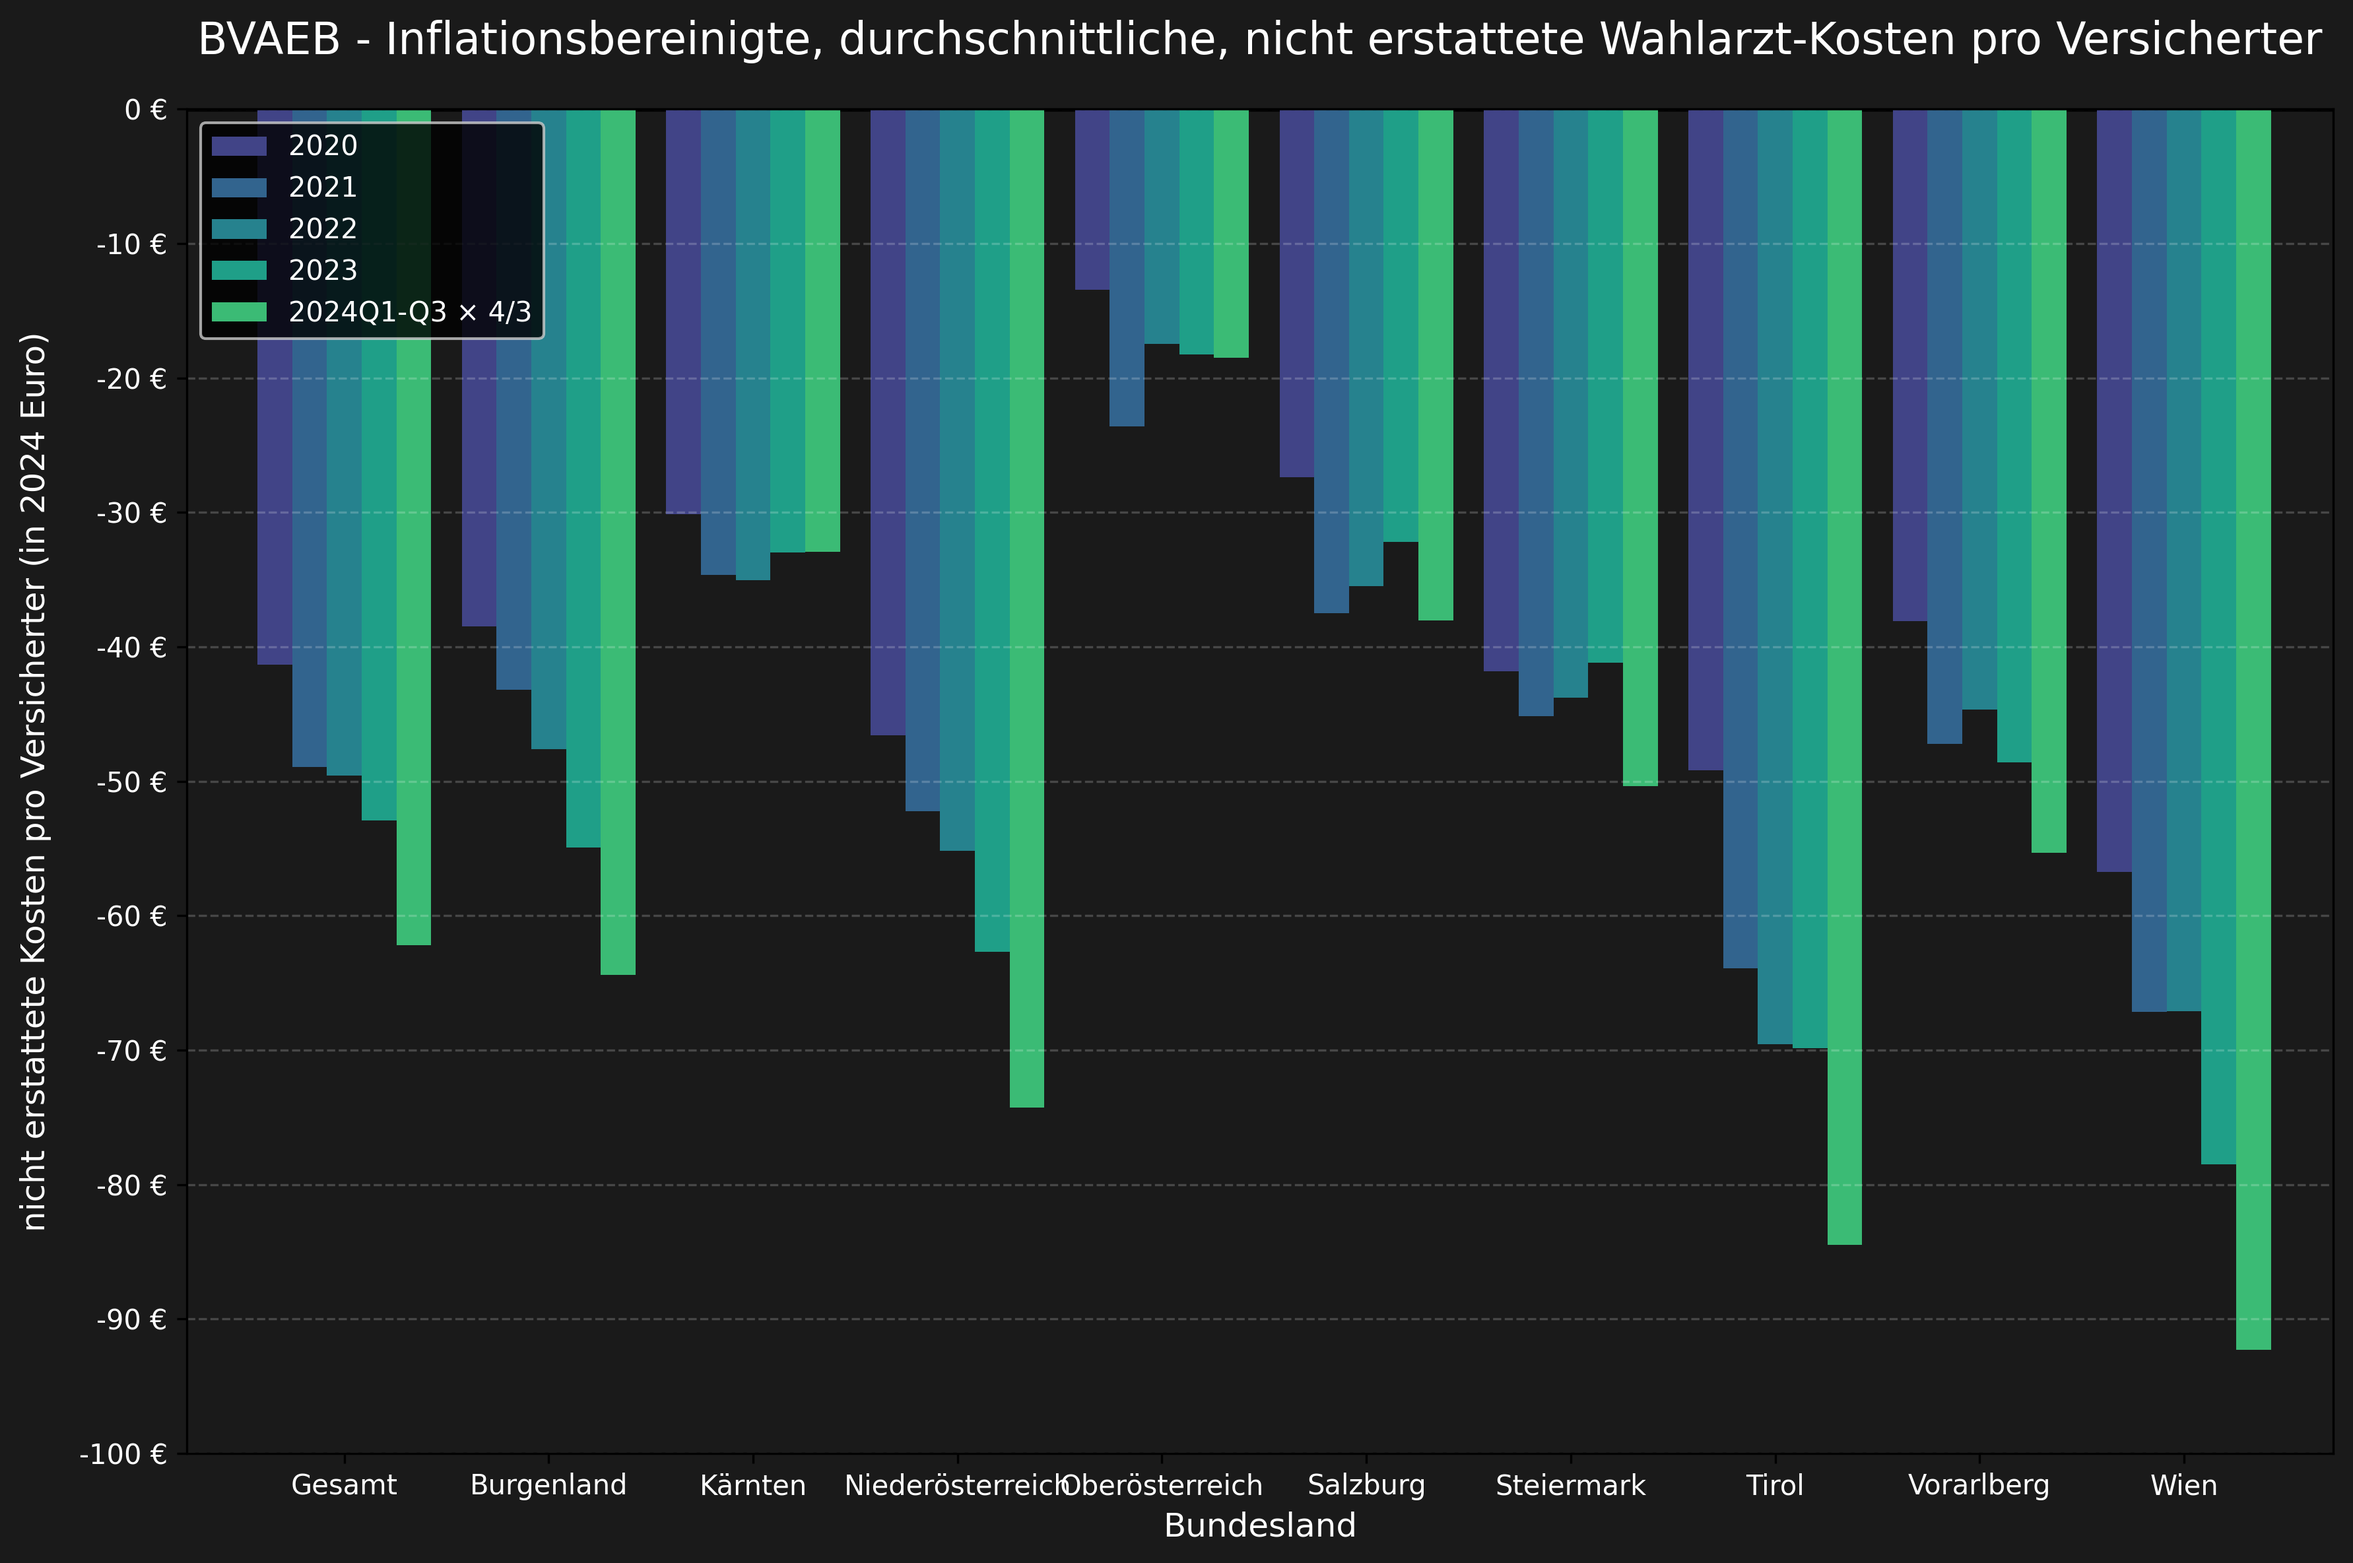
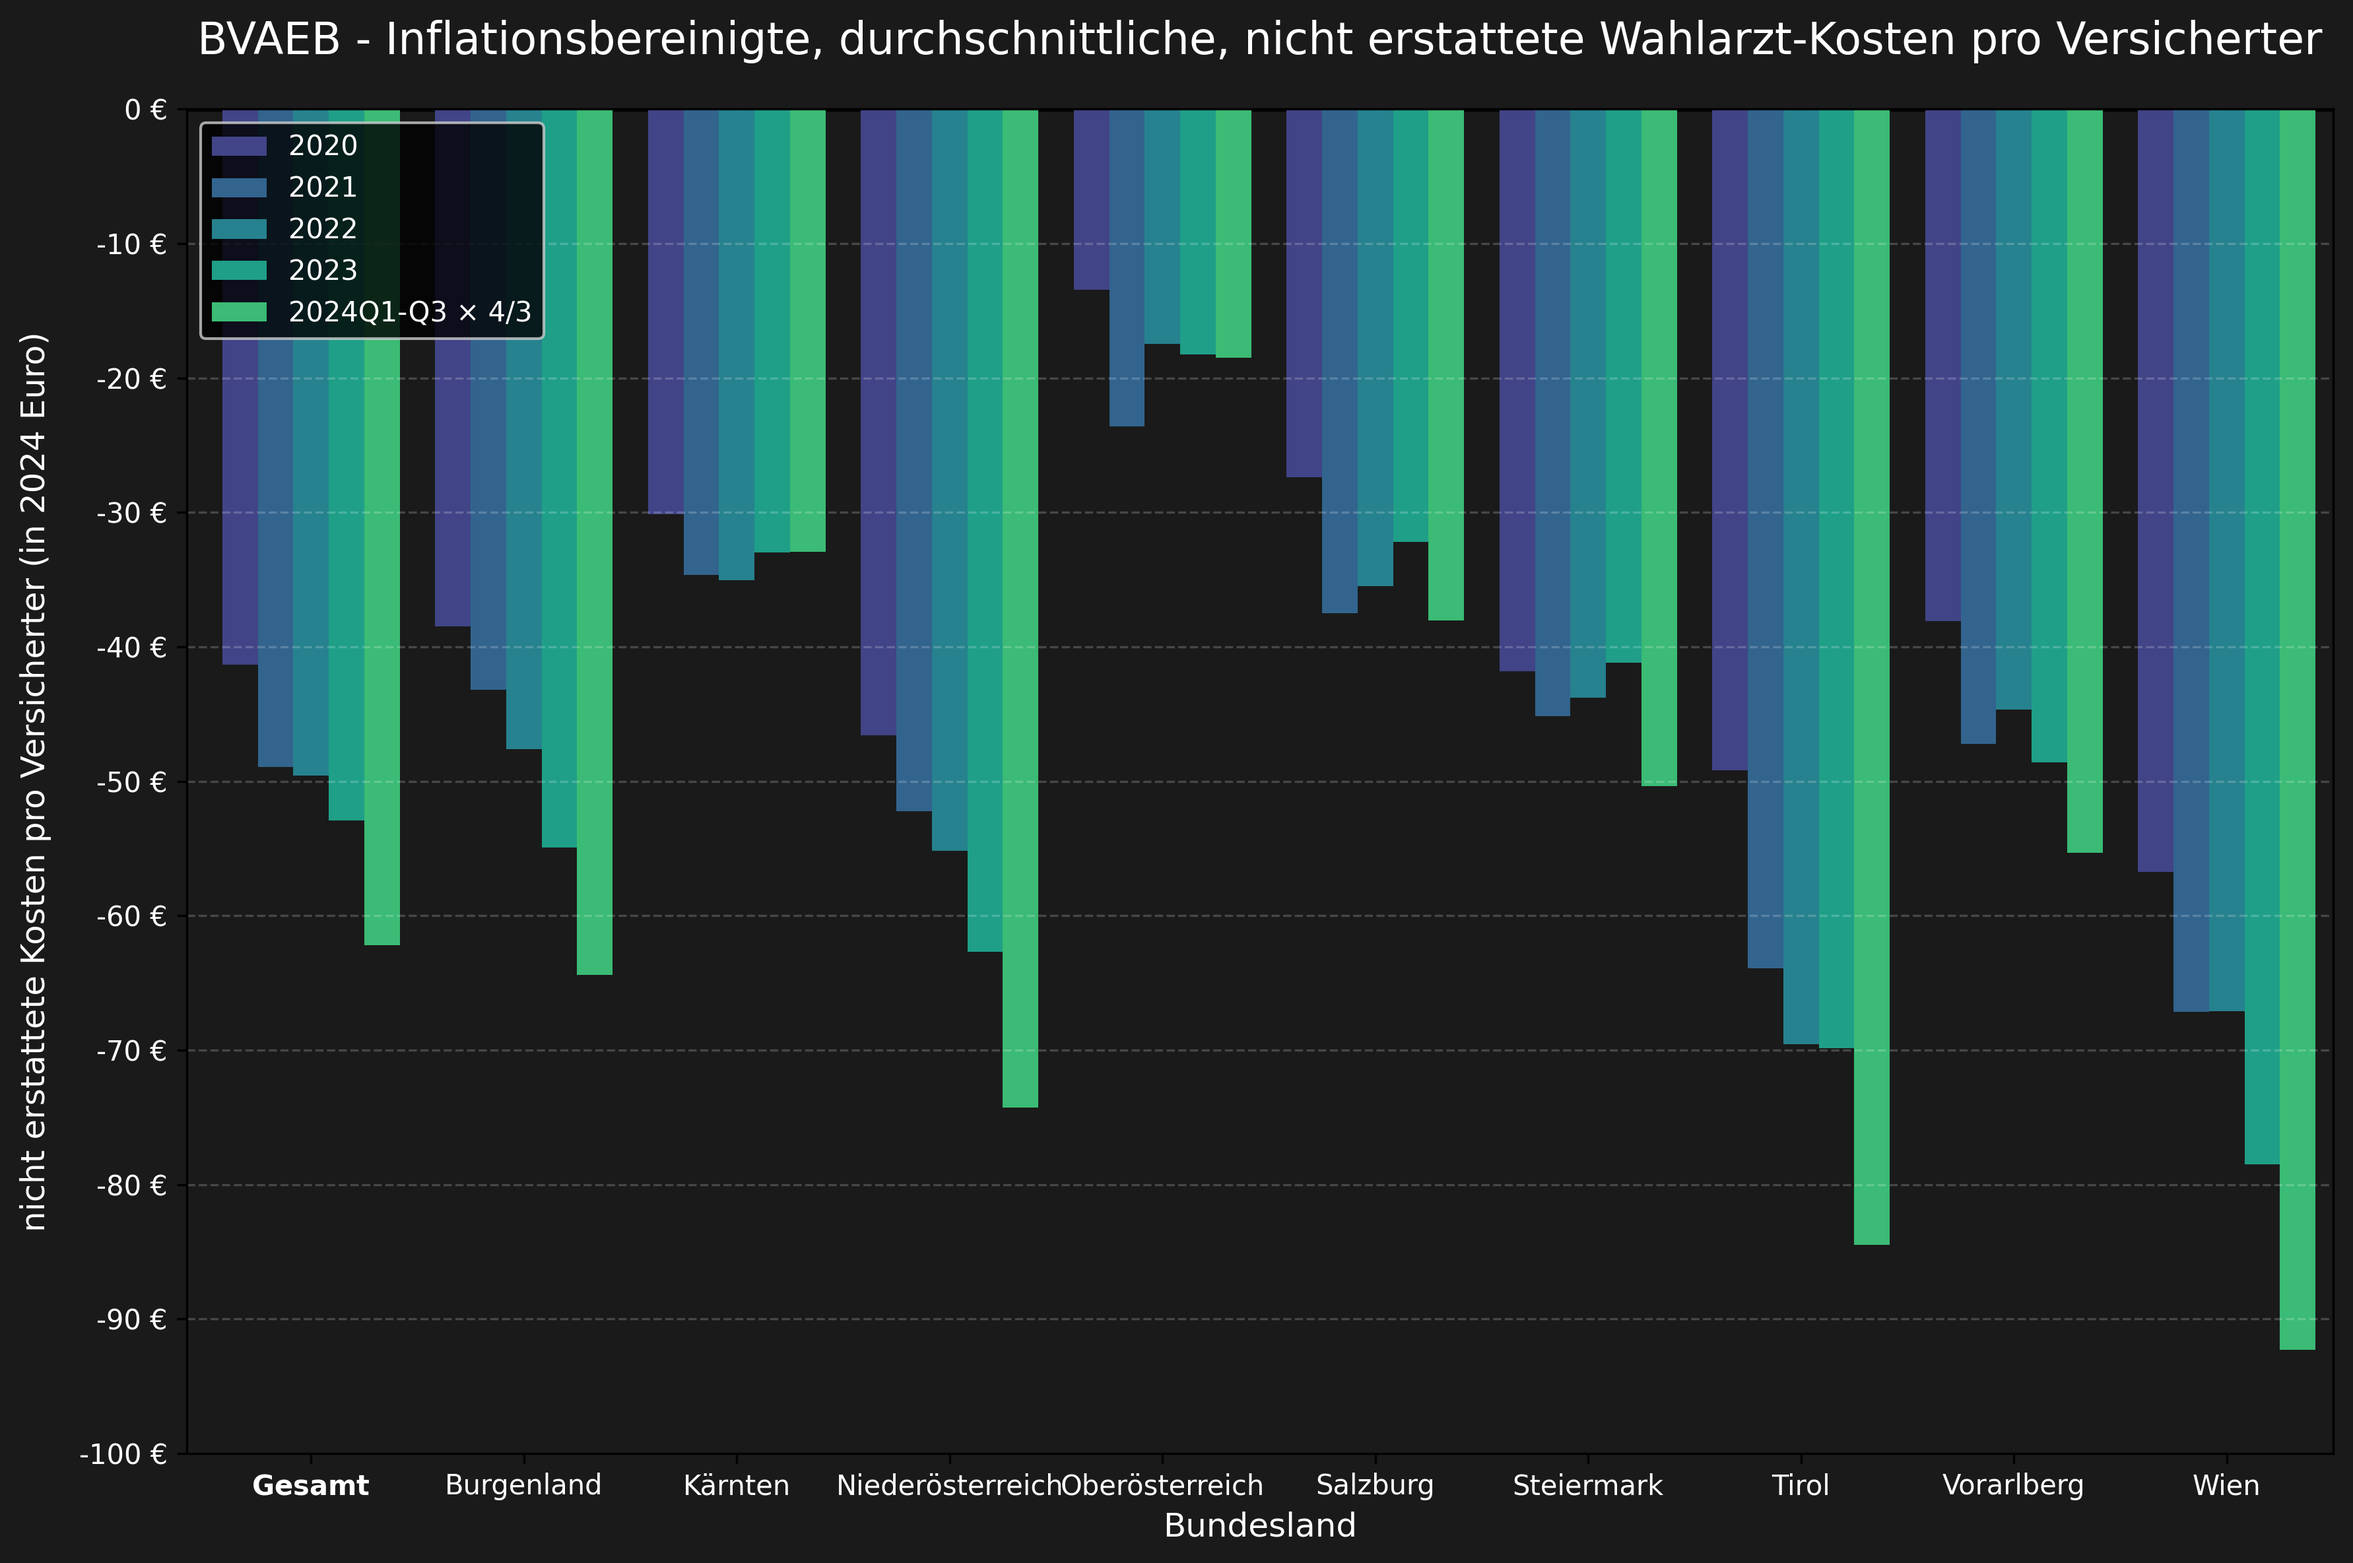
small improvements to betraege weidhted plot

diff --git a/visualize/plot_oegk_betraege_weighted.py b/visualize/plot_oegk_betraege_weighted.py
@@ -180,7 +180,8 @@ def create_plot(input_file, dark_mode=True, is_updated=False, plot_type="betraeg
 
     # Create x-axis positions
     x = np.arange(len(states))
-    bar_width = 0.85 / len(years)  # Adjust bar width based on number of years
+    bar_width = 1 / len(years)  # Adjust bar width based on number of years
+    group_spacing = 0.2  # Add spacing between groups of bars
 
     # Add special grid line at 0 for personal loss plot before plotting bars
     # Set grid alpha to 0.2 for dark mode and 0.7 for light mode
@@ -222,7 +223,7 @@ def create_plot(input_file, dark_mode=True, is_updated=False, plot_type="betraeg
                     # Plot Rechnungsbeträge with modified color
                     bars.append(
                         ax.bar(
-                            i + (j - 1) * bar_width,
+                            i + (j - 1) * bar_width + i * group_spacing,
                             rechnungsbetrag,
                             bar_width,
                             color=rechnungsbetraege_color,
@@ -237,7 +238,7 @@ def create_plot(input_file, dark_mode=True, is_updated=False, plot_type="betraeg
 
                     bars.append(
                         ax.bar(
-                            i + (j - 1) * bar_width,
+                            i + (j - 1) * bar_width + i * group_spacing,
                             refundierung,
                             bar_width,
                             color=refund_color,
@@ -250,7 +251,7 @@ def create_plot(input_file, dark_mode=True, is_updated=False, plot_type="betraeg
                         personal_loss = year_data["Personal_loss"].iloc[0]
                         bars.append(
                             ax.bar(
-                                i + (j - 1) * bar_width,
+                                i + (j - 1) * bar_width + i * group_spacing,
                                 personal_loss,
                                 bar_width,
                                 color=plt.cm.viridis(0.2 + 0.6 * (j / len(years))),
@@ -274,8 +275,6 @@ def create_plot(input_file, dark_mode=True, is_updated=False, plot_type="betraeg
         )
         ylabel = "nicht erstattete Kosten pro Versicherter (in 2024 Euro)"
 
-    if is_updated:
-        title_prefix += " (Aktualisiert 2025)"
     plt.title(
         title_prefix,
         fontsize=16,
@@ -285,10 +284,16 @@ def create_plot(input_file, dark_mode=True, is_updated=False, plot_type="betraeg
     plt.xlabel("Bundesland", fontsize=12, color=text_color)
     plt.ylabel(ylabel, fontsize=12, labelpad=10, color=text_color)
 
-    xticks = x + (len(years) - 3) * bar_width / 2
-    plt.xticks(
-        xticks, map(prettify_LST.get, states), rotation=0, ha="center", color=text_color
-    )
+    # Set x-axis labels with special formatting for Gesamt
+    xticks = x + (len(years) - 3) * bar_width / 2 + x * group_spacing
+    xlabels = []
+    for state in states:
+        if state == "Gesamt":
+            xlabels.append(r"$\mathbf{Gesamt}$")  # Bold Gesamt using LaTeX
+        else:
+            xlabels.append(prettify_LST.get(state, state))
+    
+    plt.xticks(xticks, xlabels, rotation=0, ha="center", color=text_color)
     plt.yticks(color=text_color)
 
     # Format y-axis with thousands separator, € symbol, and 10€ steps
@@ -343,7 +348,7 @@ def create_plot(input_file, dark_mode=True, is_updated=False, plot_type="betraeg
                 bbox=dict(facecolor='none', edgecolor=text_color, alpha=0.5, pad=5))
 
     # Set the axis limits
-    ax.set_xlim(-0.6, len(states) - 0.1)
+    ax.set_xlim(-0.5, len(states) - 0.2 + (len(states) - 1) * group_spacing)
     # Let matplotlib automatically determine the y-axis limit based on the data
 
     # Adjust layout to prevent label cutoff

diff --git a/visualize/plot_bvaeb_betraege_weighted.py b/visualize/plot_bvaeb_betraege_weighted.py
@@ -172,7 +172,8 @@ def create_plot(input_file, dark_mode=True, is_updated=False, plot_type="betraeg
 
     # Create x-axis positions
     x = np.arange(len(states))
-    bar_width = 0.85 / len(years)  # Adjust bar width based on number of years
+    bar_width = 1 / len(years)  # Adjust bar width based on number of years
+    group_spacing = 0.2  # Add spacing between groups of bars
 
     # Add special grid line at 0 for personal loss plot before plotting bars
     # Set grid alpha to 0.2 for dark mode and 0.7 for light mode
@@ -214,7 +215,7 @@ def create_plot(input_file, dark_mode=True, is_updated=False, plot_type="betraeg
                     # Plot Rechnungsbeträge with modified color
                     bars.append(
                         ax.bar(
-                            i + (j - 1) * bar_width,
+                            i + (j - 1) * bar_width + i * group_spacing,
                             rechnungsbetrag,
                             bar_width,
                             color=rechnungsbetraege_color,
@@ -229,7 +230,7 @@ def create_plot(input_file, dark_mode=True, is_updated=False, plot_type="betraeg
 
                     bars.append(
                         ax.bar(
-                            i + (j - 1) * bar_width,
+                            i + (j - 1) * bar_width + i * group_spacing,
                             refundierung,
                             bar_width,
                             color=refund_color,
@@ -242,7 +243,7 @@ def create_plot(input_file, dark_mode=True, is_updated=False, plot_type="betraeg
                         personal_loss = year_data["Personal_loss"].iloc[0]
                         bars.append(
                             ax.bar(
-                                i + (j - 1) * bar_width,
+                                i + (j - 1) * bar_width + i * group_spacing,
                                 personal_loss,
                                 bar_width,
                                 color=plt.cm.viridis(0.2 + 0.6 * (j / len(years))),
@@ -277,10 +278,16 @@ def create_plot(input_file, dark_mode=True, is_updated=False, plot_type="betraeg
     plt.xlabel("Bundesland", fontsize=12, color=text_color)
     plt.ylabel(ylabel, fontsize=12, labelpad=10, color=text_color)
 
-    xticks = x + (len(years) - 3) * bar_width / 2
-    plt.xticks(
-        xticks, map(prettify_LST.get, states), rotation=0, ha="center", color=text_color
-    )
+    # Set x-axis labels with special formatting for Gesamt
+    xticks = x + (len(years) - 3) * bar_width / 2 + x * group_spacing
+    xlabels = []
+    for state in states:
+        if state == "Gesamt":
+            xlabels.append(r"$\mathbf{Gesamt}$")  # Bold Gesamt using LaTeX
+        else:
+            xlabels.append(prettify_LST.get(state, state))
+    
+    plt.xticks(xticks, xlabels, rotation=0, ha="center", color=text_color)
     plt.yticks(color=text_color)
 
     # Format y-axis with thousands separator, € symbol, and 10€ steps
@@ -318,7 +325,7 @@ def create_plot(input_file, dark_mode=True, is_updated=False, plot_type="betraeg
     ax.legend(by_label.values(), by_label.keys(), loc="upper left")
 
     # Set the axis limits
-    ax.set_xlim(-0.6, len(states) - 0.1)
+    ax.set_xlim(-0.5, len(states) - 0.2 + (len(states) - 1) * group_spacing)
     # Let matplotlib automatically determine the y-axis limit based on the data
 
     # Adjust layout to prevent label cutoff
